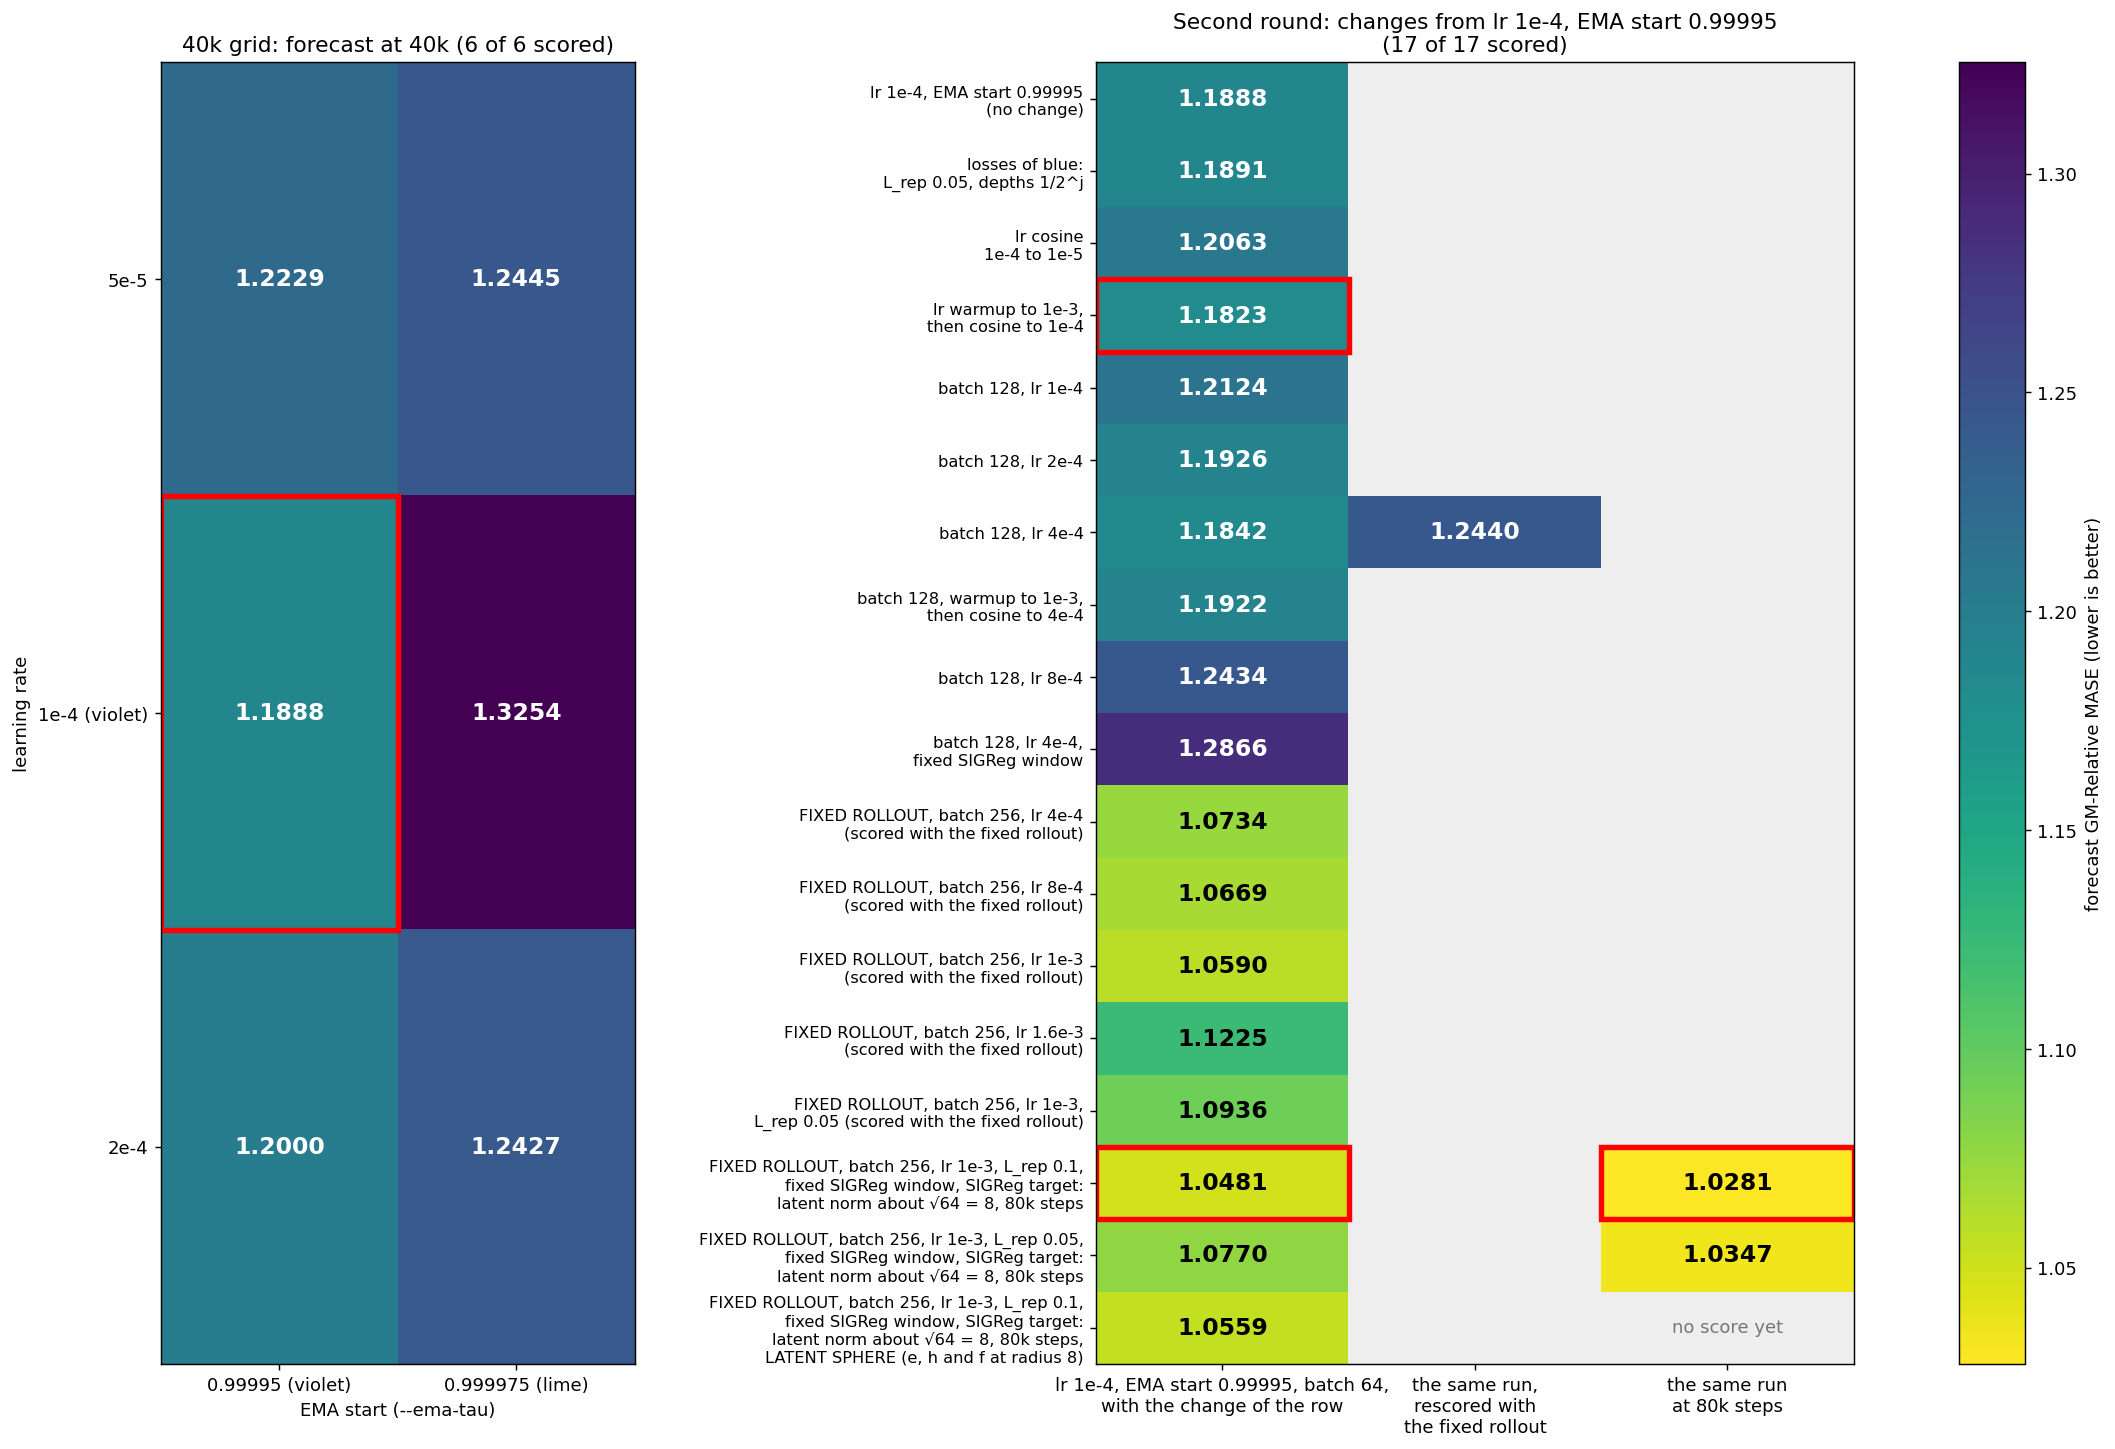
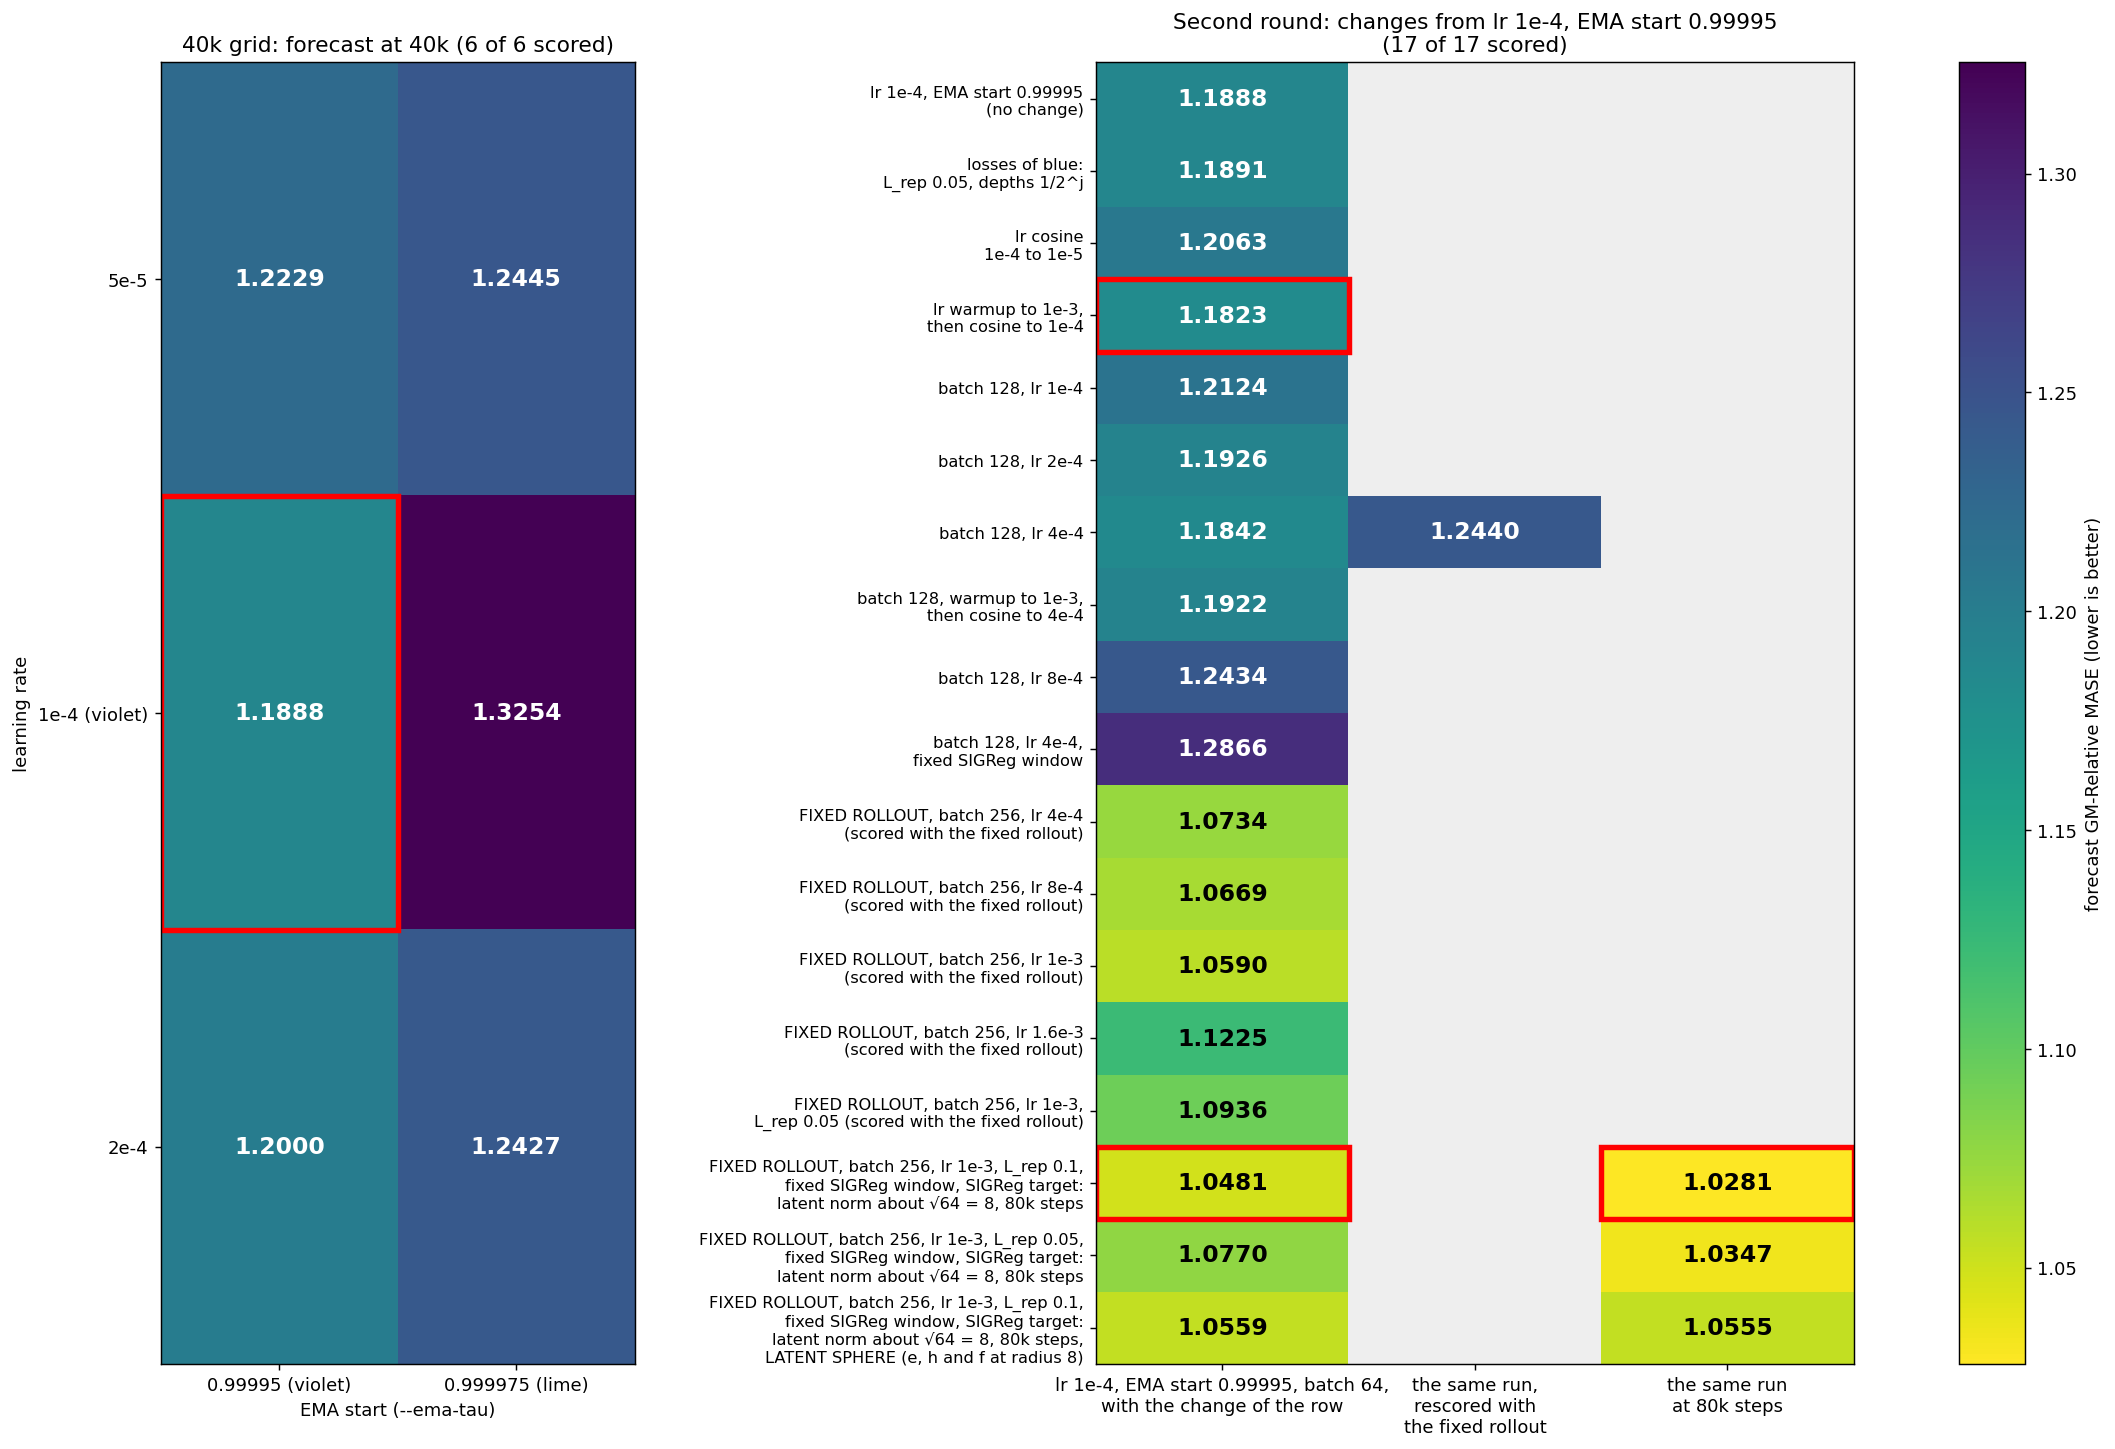
freq_family report: the width-64 sphere run at 80k, 1.0555 (without the sphere 1.0281)

Changed region(s): [[0.7489, 0.8696, 0.8738, 0.9627]]

diff --git a/reports/2026-10-10_frequency_family_head/frequency_family_head.md b/reports/2026-10-10_frequency_family_head/frequency_family_head.md
@@ -123,8 +123,10 @@ The first heads of this run read the encoder output of the raw e: contrastive-fo
 With the fixed head path, the run gets 1.0658 at 20k (short 0.9884, medium 1.1807, long 1.1724), 0.0002 above the run without the sphere.
 At 40k, it gets 1.0559 (short 0.9508, medium 1.2049, long 1.2175), 0.0078 above the run without the sphere (1.0481).
 With the sphere, the short score is lower (0.9508 against 0.9741), and the medium and long scores are higher (1.2049 against 1.1572, 1.2175 against 1.1500).
+At 80k, it gets 1.0555 (short 0.9451, medium 1.2123, long 1.2276), 0.0274 above the run without the sphere (1.0281).
+From 40k to 80k, the score of the run with the sphere changes by 0.0004, and the score of the run without it falls by 0.0200.
 With the old head path, it got 1.0691 at 20k and 1.0610 at 40k.
-The heatmap row gives the 40k score of the fixed head path.
+The heatmap row gives the 40k and 80k scores of the fixed head path.
 
 ![Forecast with and without the latent sphere](plots/sphere_compare.png)
 
